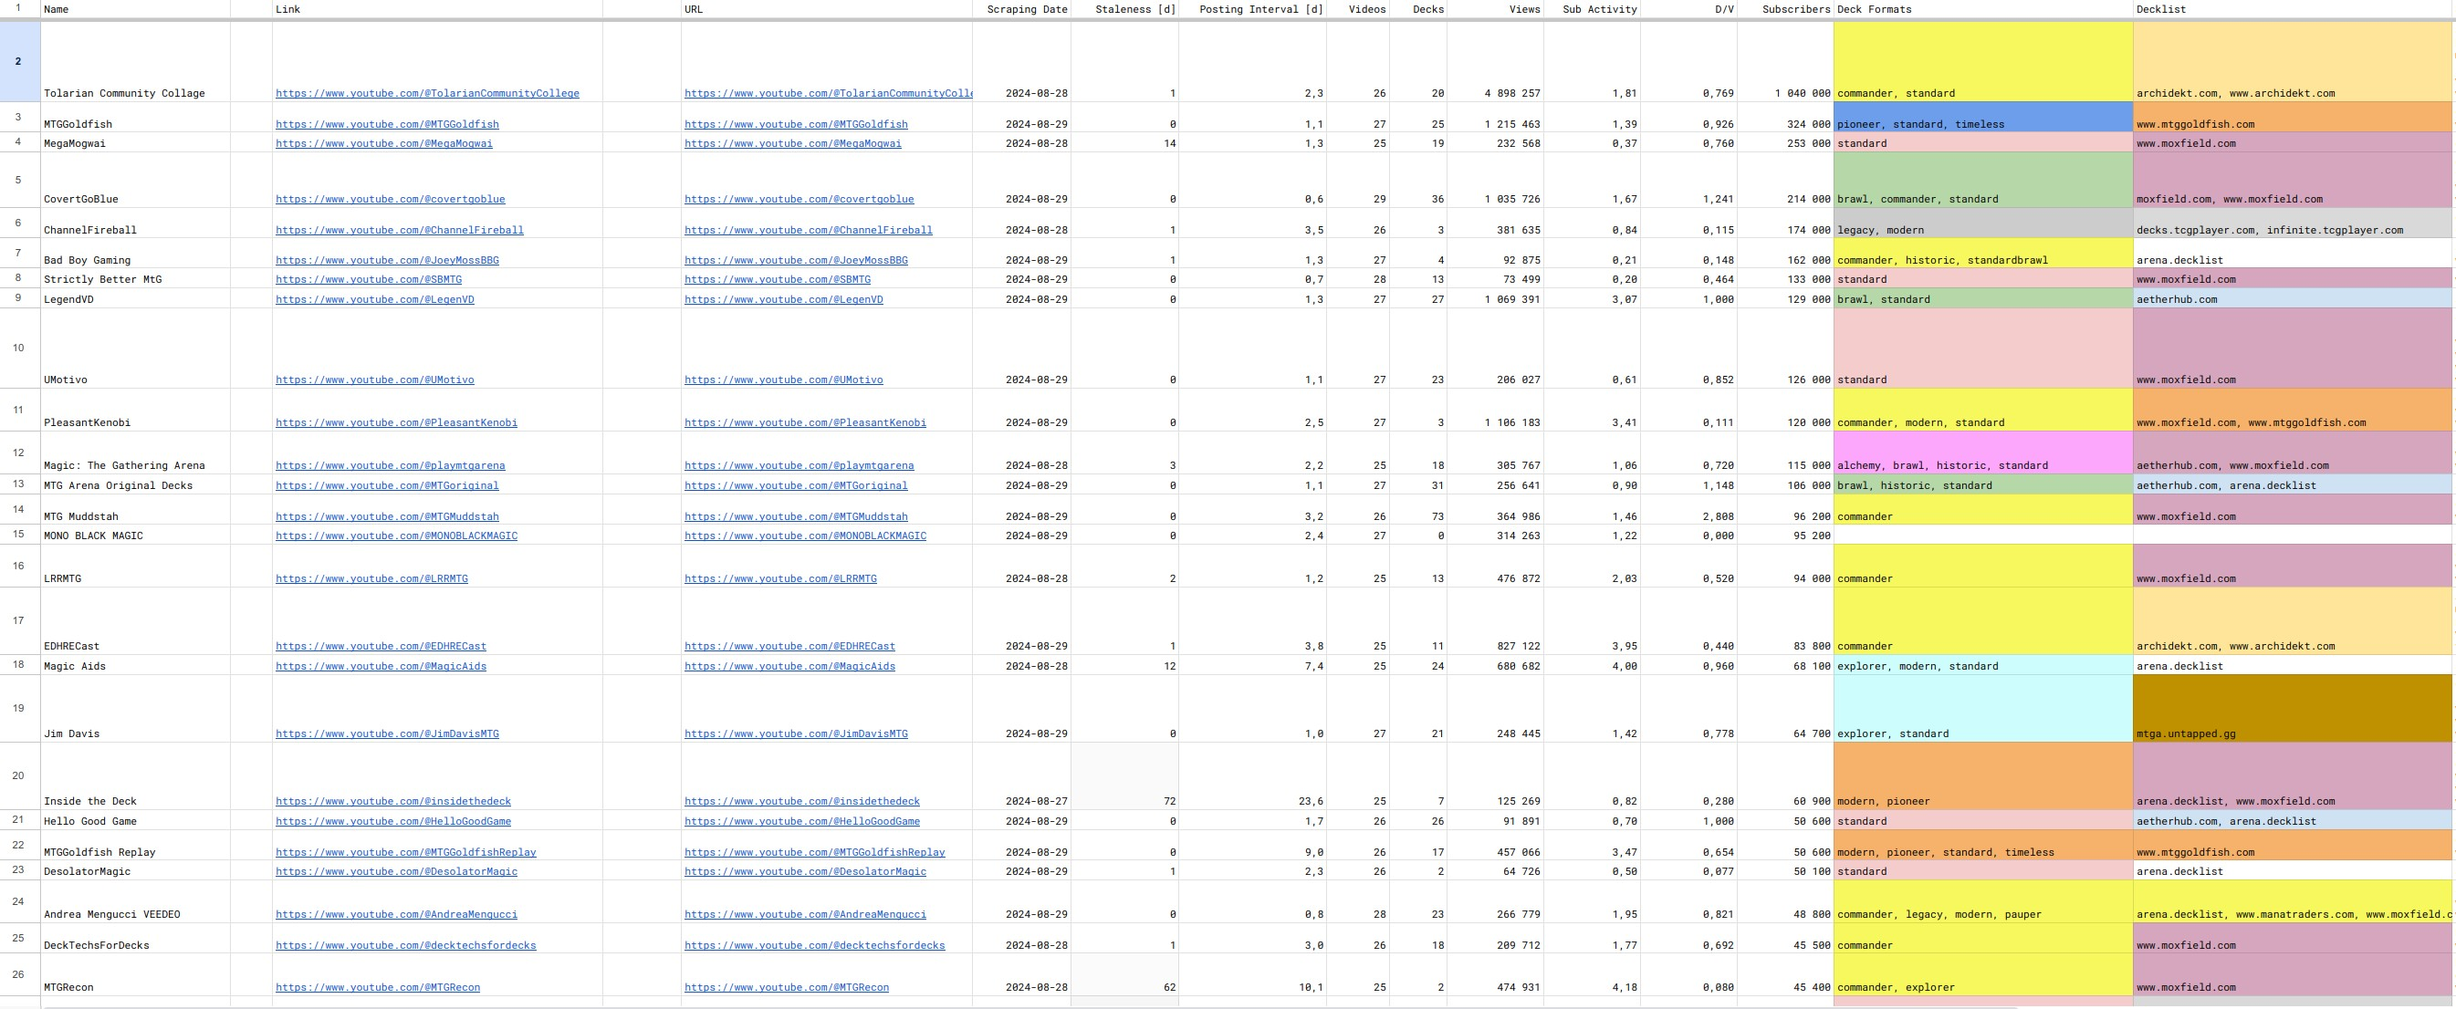
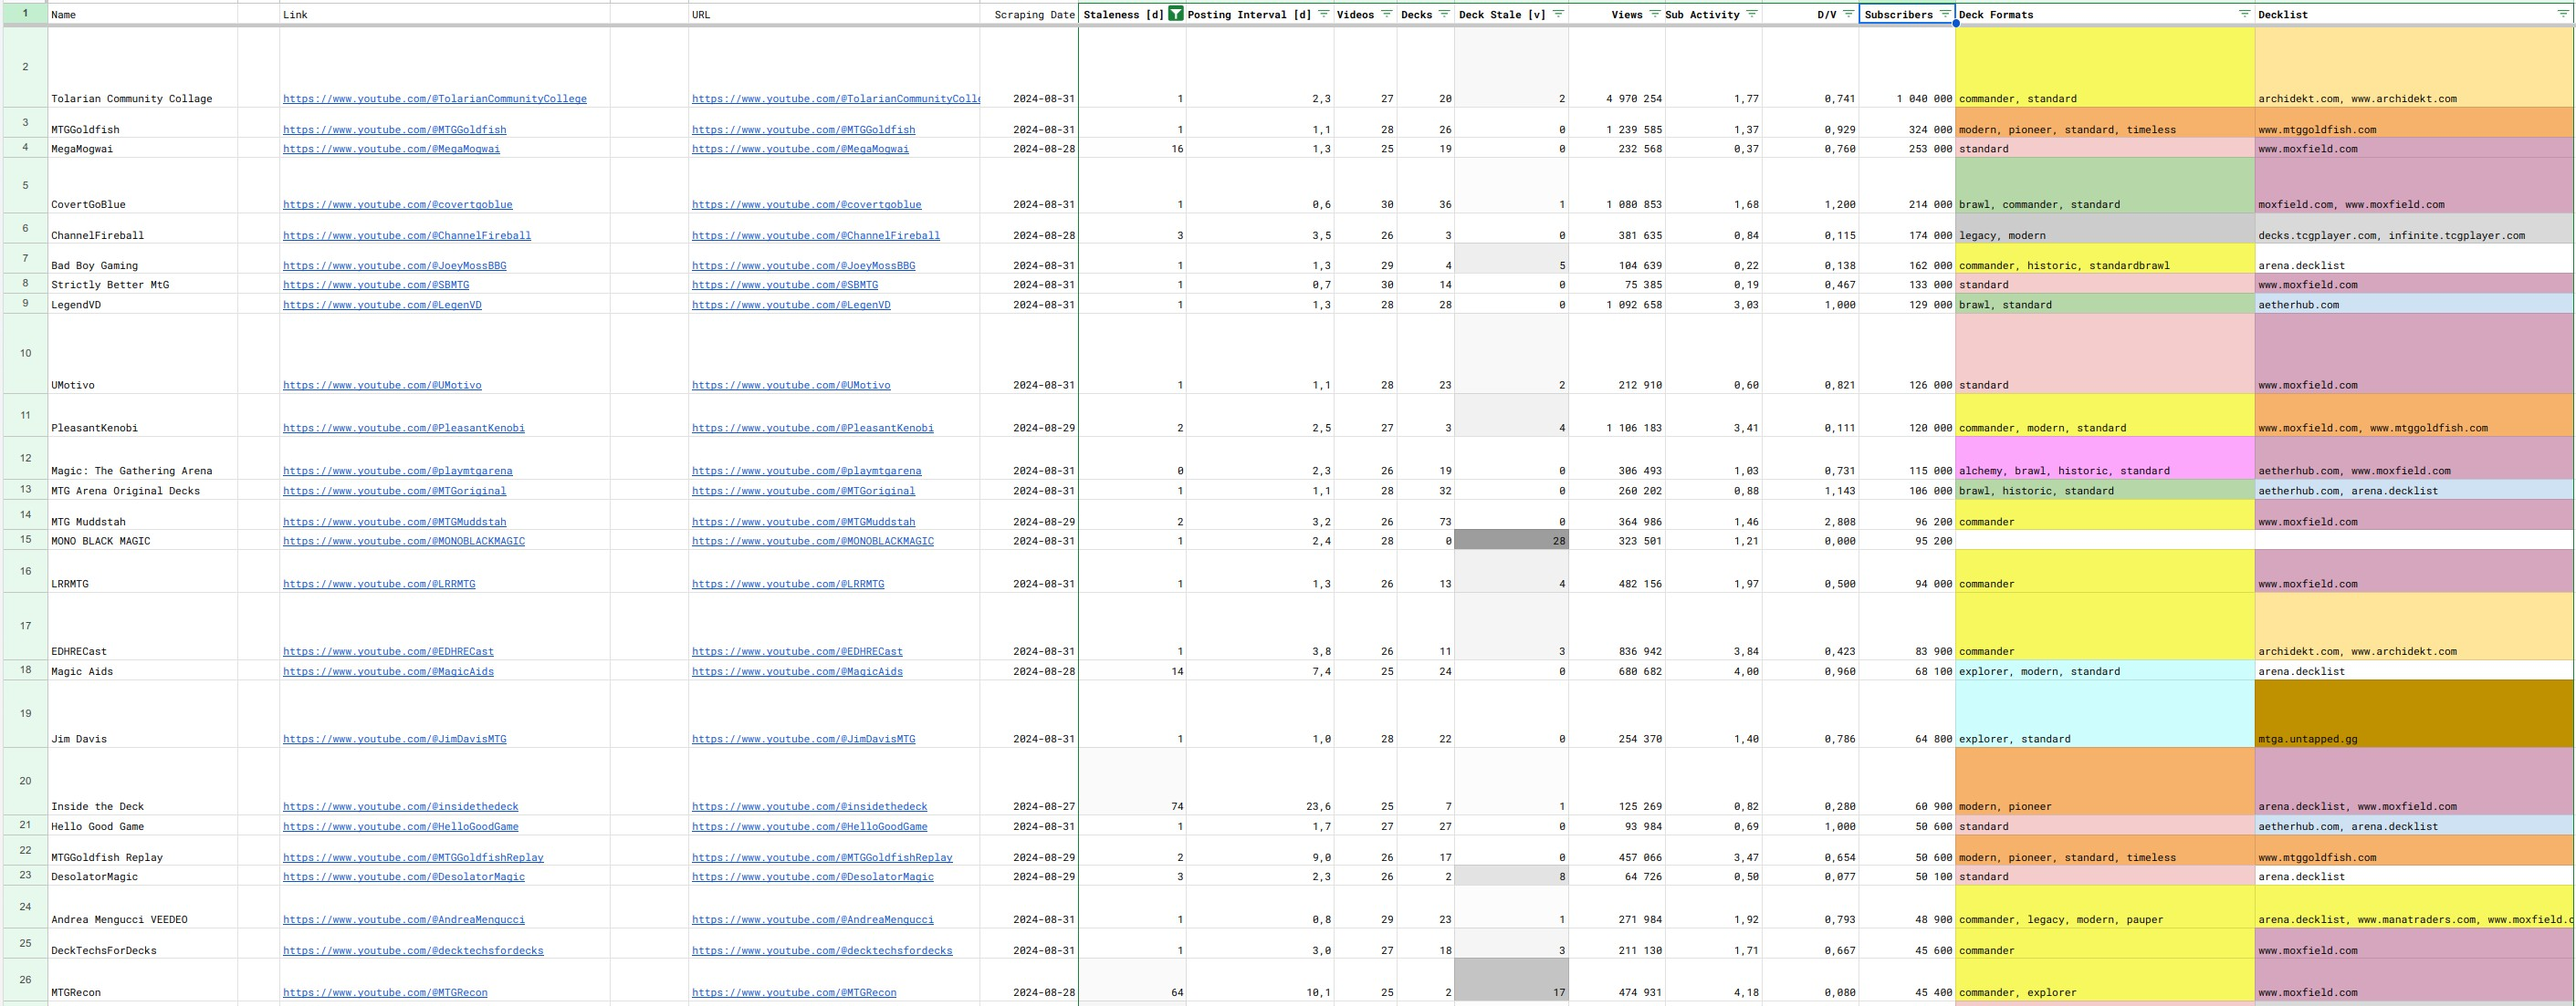
Correct `deck_staleness` definition

diff --git a/mtgcards/yt.py b/mtgcards/yt.py
@@ -108,7 +108,7 @@ class ChannelData:
             return len(self.videos)
         video_ids = [v["id"] for v in self.videos]
         deck_ids = [v["id"] for v in self.videos if v["decks"]]
-        return len(self.videos[video_ids.index(deck_ids[0]):])
+        return len(self.videos[:video_ids.index(deck_ids[0])])
 
     @property
     def span(self) -> int | None:
